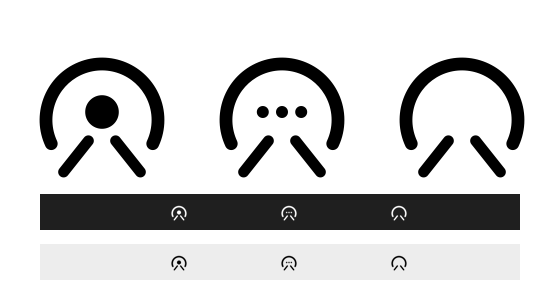
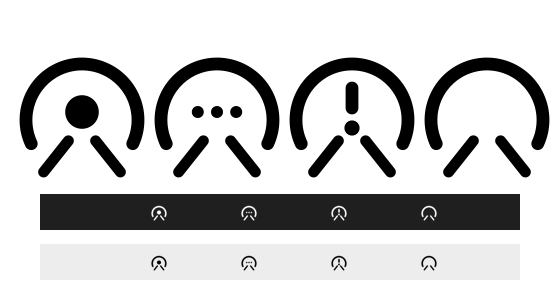
Sync 0.3.13

diff --git a/App/MenuBarManager.swift b/App/MenuBarManager.swift
@@ -1,4 +1,5 @@
 import AppKit
+import Combine
 import OSLog
 import SwiftUI
 
@@ -17,6 +18,12 @@ class MenuBarManager {
     /// Lazily created; see `fallbackAnchorView()`.
     private var fallbackAnchorWindow: NSWindow?
     private var promptedForMFA: Set<UUID> = []
+    private var iconSubscription: AnyCancellable?
+    private var iconRefreshScheduled = false
+    private var renderedIcon: IconState?
+
+    private enum Glyph: String { case connecting, waiting, connected, failed, idle }
+    private struct IconState: Equatable { let glyph: Glyph; let count: Int }
 
     private static let statusButtonWaitSeconds: TimeInterval = 3.0
     private static let statusButtonPollNanoseconds: UInt64 = 50_000_000
@@ -43,11 +50,9 @@ class MenuBarManager {
             btn.target = self
         }
 
-        Task { @MainActor [weak self] in
-            for await statuses in VPNManager.shared.$statuses.values {
-                self?.updateIcon(statuses)
-            }
-        }
+        iconSubscription = VPNManager.shared.objectWillChange
+            .sink { [weak self] _ in self?.scheduleIconRefresh() }
+        scheduleIconRefresh()
 
         Task { @MainActor [weak self] in
             for await challenges in VPNManager.shared.$mfaChallenges.values {
@@ -207,20 +212,48 @@ class MenuBarManager {
         anchorMoveObserver = nil
     }
 
-    private func updateIcon(_ statuses: [UUID: ConnectionStatus]) {
-        let connected = statuses.values.filter { $0 == .connected }.count
-        let transitional = statuses.values.contains {
-            $0 == .connecting || $0 == .reconnecting || $0 == .disconnecting
+    /// Coalesce a burst of changes into one render on the next main-actor turn.
+    private func scheduleIconRefresh() {
+        guard !iconRefreshScheduled else { return }
+        iconRefreshScheduled = true
+        Task { @MainActor [weak self] in
+            self?.iconRefreshScheduled = false
+            self?.refreshIcon()
         }
-        let base: NSImage?
+    }
+
+    @MainActor private func refreshIcon() {
+        let vpn = VPNManager.shared
+        let statuses = vpn.profiles.map { ($0, vpn.status(for: $0)) }
+        let connected = statuses.filter { $0.1 == .connected }.count
+        let transitional = statuses.contains {
+            $0.1 == .connecting || $0.1 == .reconnecting || $0.1 == .disconnecting
+        }
+        let waiting = statuses.contains { $0.1 == .waitingForNetwork }
+        let glyph: Glyph
         if transitional {
-            base = Self.templateIcon(named: "connecting") ?? symbolImage("ellipsis.circle")
+            glyph = .connecting
+        } else if waiting {
+            glyph = .waiting
         } else if connected > 0 {
-            base = Self.templateIcon(named: "connected") ?? symbolImage("arrow.up.arrow.down.circle.fill")
-        } else if statuses.values.contains(where: { if case .failed = $0 { return true }; return false }) {
-            base = symbolImage("xmark.circle")
+            glyph = .connected
+        } else if statuses.contains(where: { if case .failed = $0.1 { return true }; return false }) {
+            glyph = .failed
         } else {
-            base = Self.templateIcon(named: "disconnected") ?? symbolImage("arrow.up.arrow.down.circle")
+            glyph = .idle
+        }
+        let state = IconState(glyph: glyph, count: connected)
+        guard state != renderedIcon else { return }
+        renderedIcon = state
+        log.notice("icon: \(glyph.rawValue, privacy: .public) [\(statuses.map { "\($0.0.name)=\($0.1.label)" }.joined(separator: ", "), privacy: .public)]")
+
+        let base: NSImage?
+        switch glyph {
+        case .connecting: base = Self.templateIcon(named: "connecting") ?? symbolImage("ellipsis.circle")
+        case .waiting:    base = Self.templateIcon(named: "waiting") ?? symbolImage("exclamationmark.circle")
+        case .connected:  base = Self.templateIcon(named: "connected") ?? symbolImage("arrow.up.arrow.down.circle.fill")
+        case .failed:     base = symbolImage("xmark.circle")
+        case .idle:       base = Self.templateIcon(named: "disconnected") ?? symbolImage("arrow.up.arrow.down.circle")
         }
         statusItem.button?.image = badgedImage(base: base, count: connected)
     }

diff --git a/App/Backends/VPNBackend.swift b/App/Backends/VPNBackend.swift
@@ -10,13 +10,14 @@ enum ConnectionStatus: Equatable {
     case connected
     case disconnecting
     case reconnecting   // transitional state during full/partial tunnel switch
+    case waitingForNetwork
     case failed(String)
 
     static func == (lhs: Self, rhs: Self) -> Bool {
         switch (lhs, rhs) {
         case (.disconnected,.disconnected),(.connecting,.connecting),
              (.connected,.connected),(.disconnecting,.disconnecting),
-             (.reconnecting,.reconnecting): return true
+             (.reconnecting,.reconnecting),(.waitingForNetwork,.waitingForNetwork): return true
         case (.failed(let a),.failed(let b)): return a == b
         default: return false
         }
@@ -34,6 +35,7 @@ enum ConnectionStatus: Equatable {
 
     var isActive: Bool {
         self == .connected || self == .connecting || self == .disconnecting || self == .reconnecting
+        || self == .waitingForNetwork
     }
     var canDisconnect: Bool {
         if case .disconnected = self { return false }; return true
@@ -46,13 +48,14 @@ enum ConnectionStatus: Equatable {
         case .connected:      return "Connected"
         case .disconnecting:  return "Disconnecting…"
         case .reconnecting:   return "Reconnecting…"
+        case .waitingForNetwork: return "Waiting for network…"
         case .failed(let m):  return "Failed: \(m)"
         }
     }
     var color: String {
         switch self {
         case .connected:                                      return "green"
-        case .connecting,.disconnecting,.reconnecting:        return "yellow"
+        case .connecting,.disconnecting,.reconnecting,.waitingForNetwork: return "yellow"
         case .failed:                                         return "red"
         case .disconnected:                                   return "secondary"
         }

diff --git a/App/VPNManager.swift b/App/VPNManager.swift
@@ -628,12 +628,20 @@ class VPNManager: ObservableObject {
     var anyActive:    Bool { statuses.values.contains(where: { $0.isActive }) }
 
     func status(for profile: VPNProfile) -> ConnectionStatus {
-        statuses[profile.id] ?? .disconnected
+        displayStatus(statuses[profile.id] ?? .disconnected)
+    }
+
+    func displayStatus(_ s: ConnectionStatus, networkAvailable: Bool? = nil) -> ConnectionStatus {
+        if !(networkAvailable ?? self.networkAvailable), s == .connecting || s == .reconnecting { return .waitingForNetwork }
+        return s
     }
 
     // MARK: – Private
 
     private var networkWatcher: NetworkPathWatcher?
+
+    /// False while the system reports no usable network path.
+    @Published private(set) var networkAvailable = true
 
     private init() {
         autoreconnectEnabled = UserDefaults.standard.object(forKey: Self.autoreconnectKey) as? Bool ?? false
@@ -648,11 +656,15 @@ class VPNManager: ObservableObject {
 
     func startNetworkPathWatcher() {
         guard networkWatcher == nil else { return }
-        networkWatcher = NetworkPathWatcher { [weak self] in
+        networkWatcher = NetworkPathWatcher(onPathRestored: { [weak self] in
             Task { @MainActor [weak self] in
                 self?.autoReconnectAfterNetworkRestore()
             }
-        }
+        }, onAvailabilityChanged: { [weak self] up in
+            Task { @MainActor [weak self] in
+                self?.networkAvailable = up
+            }
+        })
         networkWatcher?.start()
     }
 

diff --git a/App/NetworkPathWatcher.swift b/App/NetworkPathWatcher.swift
@@ -8,10 +8,14 @@ final class NetworkPathWatcher {
     private let monitor = NWPathMonitor()
     private let queue   = DispatchQueue(label: "com.manueldeprada.velun.NetworkPath")
     private var wasSatisfied = false
+    private var lastReported: Bool?
     private let onPathRestored: @Sendable () -> Void
+    private let onAvailabilityChanged: @Sendable (Bool) -> Void
 
-    init(onPathRestored: @escaping @Sendable () -> Void) {
+    init(onPathRestored: @escaping @Sendable () -> Void,
+         onAvailabilityChanged: @escaping @Sendable (Bool) -> Void = { _ in }) {
         self.onPathRestored = onPathRestored
+        self.onAvailabilityChanged = onAvailabilityChanged
         monitor.pathUpdateHandler = { [weak self] path in
             guard let self else { return }
             let nowSatisfied = path.status == .satisfied
@@ -21,6 +25,10 @@ final class NetworkPathWatcher {
                 self.onPathRestored()
             } else if self.wasSatisfied, !nowSatisfied {
                 log.info("network path lost: status=\(String(describing: path.status), privacy: .public)")
+            }
+            if self.lastReported != nowSatisfied {
+                self.lastReported = nowSatisfied
+                self.onAvailabilityChanged(nowSatisfied)
             }
             self.wasSatisfied = nowSatisfied
         }

diff --git a/App/StatusBroadcaster.swift b/App/StatusBroadcaster.swift
@@ -25,7 +25,7 @@ final class StatusBroadcaster {
         // Snapshot whenever any of the inputs change.
         Publishers.CombineLatest3(
             vpn.$profiles,
-            vpn.$statuses,
+            vpn.$statuses.combineLatest(vpn.$networkAvailable),
             vpn.$errors
         )
         .combineLatest(vpn.$appliedRoutes)
@@ -42,7 +42,7 @@ final class StatusBroadcaster {
             var d: [String: Any] = [
                 "id":     p.id.uuidString,
                 "name":   p.name,
-                "status": (vpn.statuses[p.id] ?? .disconnected).cliRawValue,
+                "status": vpn.displayStatus(vpn.statuses[p.id] ?? .disconnected).cliRawValue,
             ]
             if let err = vpn.errors[p.id] { d["error"] = err }
             if let routes = vpn.appliedRoutes[p.id] {
@@ -76,6 +76,7 @@ private extension ConnectionStatus {
         case .connected:     return "connected"
         case .disconnecting: return "disconnecting"
         case .reconnecting:  return "reconnecting"
+        case .waitingForNetwork: return "waiting-for-network"
         case .failed:        return "failed"
         }
     }

diff --git a/App/Changelog.swift b/App/Changelog.swift
@@ -14,6 +14,14 @@ enum Changelog {
     /// Append new entries here when shipping a release. Most recent at the top.
     static let entries: [ChangelogEntry] = [
         ChangelogEntry(
+            version: "0.3.13",
+            date:    "2026-11-20",
+            title:   "Menu bar fixes",
+            bullets: [
+                "Fixed the menu bar icon staying on \"connecting\" while every connection was up.",
+            ]
+        ),
+        ChangelogEntry(
             version: "0.3.11",
             date:    "2026-09-14",
             title:   "Login-item fixes",

diff --git a/App/ConfigurationView.swift b/App/ConfigurationView.swift
@@ -1115,7 +1115,7 @@ struct ProfileCard: View {
     private var dotColor: Color {
         switch status {
         case .connected:                              return .green
-        case .connecting,.disconnecting,.reconnecting: return .yellow
+        case .connecting,.disconnecting,.reconnecting,.waitingForNetwork: return .yellow
         case .failed:                                 return .red
         case .disconnected:
             if errorMsg != nil       { return .red }
